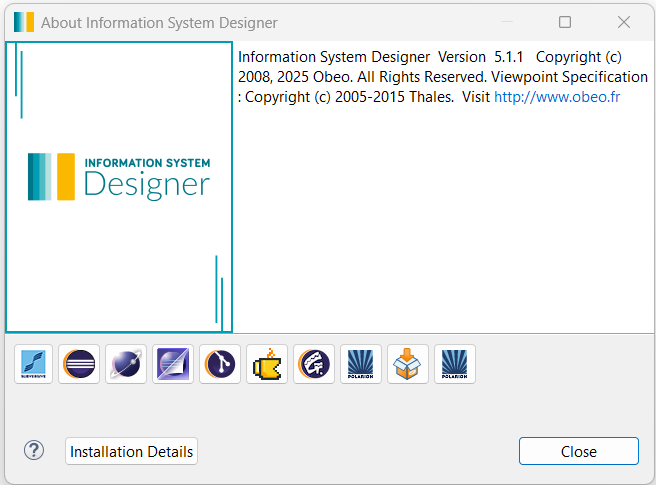
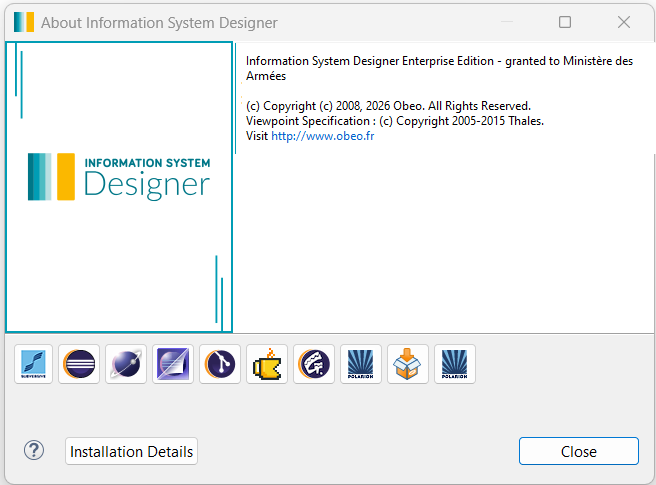
Modifications suite à passage ISD 6.0.0

Changed region(s): [[0.3659, 0.0928, 1.0, 0.3093], [0.9756, 0.2474, 1.0, 0.3093]]

diff --git a/pacman-frontend.html b/pacman-frontend.html
@@ -155,7 +155,7 @@ C:<span class="se">\U</span>sers&gt;npm<span class="w"> </span>-v
 </code></pre></div>
 <h3 id="plugins-externes">Plugins externes</h3>
 <p>1 - Vérification de la version pour l'IDE</p>
-<p>Avant de commencer l'installation ou l'utilisation du plugin, il est indispensable de vérifier que l'IDE Eclipse utilisé correspond bien à la version 5.1.1 requise. Pour cela, ouvrez Eclipse puis accédez au menu "<em>Help/About Eclipse IDE</em>". Dans la fenêtre d'information, contrôlez attentivement le numéro de version affiché ainsi que les détails de la plateforme. Assurez-vous que la version indiquée est au moins la 5.1.1, afin de garantir la compatibilité complète du plugin et d'éviter tout comportement inattendu ou erreur d'exécution liée à une version non conforme de l'environnement Eclipse.</p>
+<p>Avant de commencer l'installation ou l'utilisation du plugin, il est indispensable de vérifier que l'IDE Eclipse utilisé correspond bien à la version 6.0.0 requise. Pour cela, ouvrez Eclipse puis accédez au menu "<em>Help/About Eclipse IDE</em>". Dans la fenêtre d'information, contrôlez attentivement le numéro de version affiché ainsi que les détails de la plateforme. Assurez-vous que la version indiquée est au moins la 6.0.0, afin de garantir la compatibilité complète du plugin et d'éviter tout comportement inattendu ou erreur d'exécution liée à une version non conforme de l'environnement Eclipse.</p>
 <div align="center">
 <img alt="Installation" src="images/pcm-ecr-about-version.png" width="500"/>
 </div>
@@ -181,7 +181,8 @@ C:<span class="se">\U</span>sers&gt;npm<span class="w"> </span>-v
 <li>Charger le plugin et le stocker dans un répertoire de votre choix sur le disque. </li>
 </ul>
 <p>1b - Compilation des sources (développement)</p>
-<p>Il est aussi possible de récupérer l'ensemble des sources et de les compiler (JDK 17 au minimum et Maven 3.9.9) afin d'obtenir l'update site. Les étapes sont les suivantes : </p>
+<p>Il est aussi possible de récupérer l'ensemble des sources et de les compiler (JDK 21 au minimum et Maven 3.9.16) afin d'obtenir l'update site (❗ Ne pas monter en 3.10.0 cela pose des problématiques avec tycho 5.0.2 !). </p>
+<p>Les étapes sont les suivantes : </p>
 <ul>
 <li>Créer un répertoire sur le disque local</li>
 <li>Lancer la commande : <code>git clone https://github.com/spi4j/pacman-front.git</code></li>
@@ -559,7 +560,7 @@ Un toolkit est développé spécifiquement par le créateur du générateur, et 
 <h3 id="lancement-du-serveur">Lancement du serveur</h3>
 <p>La commande "<em>npm run dev</em>" permet de démarrer le serveur de développement de l'application. Elle exécute le script défini dans le fichier '<em>package.json</em>' (associé à Vite) , qui lance un serveur local avec rechargement automatique. </p>
 <p>Concrètement, dès qu'un fichier du projet est modifié, l'application est recompilée et le navigateur se met à jour sans redémarrage manuel. Cette commande est utilisée uniquement en phase de développement : elle facilite les tests, le débogage et l'itération rapide, sans produire pour autant de version optimisée pour la mise en production.</p>
-<p>Sous ISD, pour lancer le serveur, se positionner au niveau du projet de modélisation et effectuer un click droit sur le fichier de cinématique (comme pour la demande de génération). Deux menus sont présents afin de démarrer ou stopper le serveur pour React. Par défaut le chemin du shell est positionné au niveau de la partie serveur pour le projet : <strong>[Nom de l'application]-server</strong></p>
+<p>Sous ISD, pour lancer le serveur, se positionner au niveau du projet de modélisation et effectuer un click droit sur le fichier de cinématique (comme pour la demande de génération). Deux menus sont présents afin de démarrer ou stopper le serveur pour React. Par défaut le chemin du shell est positionné au niveau de la partie serveur pour le projet : <strong>[Nom de l'application]-server</strong>. Il est à noter par ailleurs que le paramètre "<em>--force</em>" est toujours injecté afin de forcer le nettoyage du cache avant lancement du serveur.</p>
 <p><img alt="Modélisation cinématique" src="images/pcm-react-server-1.png"/></p>
 <p>Vérifier dans la console le bon démarrage du serveur sur le port par défaut 5173 : </p>
 <p><img alt="Modélisation cinématique" src="images/pcm-react-server-3.png"/> </p>
@@ -994,6 +995,8 @@ Si c'est le cas, isActive est positionné à la valeur "<em>true</em>", ce qui p
 <h3 id="formulaire">📄 Formulaire</h3>
 <p>Elément central d'un site web permettant à l'utilisateur de saisir et transmettre des données à l'application. Il constitue le principal moyen d'interaction entre l'interface et la logique métier, que ce soit pour une authentification, une recherche ou une demande spécifique. La conception d'un formulaire repose sur plusieurs aspects essentiels : la clarté des champs, la validation des données (pour éviter les erreurs ou les entrées invalides), la gestion des retours utilisateur et la sécurité des informations transmises.</p>
 <p>Ici, la gestion des formulaires est en grande partie déléguée aux composants du DSFR. Ces composants fournissent des champs, des labels et des messages d'erreur conformes aux standards d'accessibilité et d'ergonomie, ce qui permet de se concentrer principalement sur la logique métier et la validation des données. En s'appuyant sur le DSFR, la structure, le comportement et l'affichage des formulaires sont harmonisés, tout en garantissant une expérience utilisateur cohérente et conforme aux bonnes pratiques des sites institutionnels.</p>
+<p>❗ Attention, il est nécessaire de comprendre que la génération va aussi créer des balises de type "<em>user code</em>" dans lesquelles l'utilisateur peut positionner du code personnel. Cependant les générateurs peuvent aussi positionner par défaut un squelette de code généré en fonction de ce qui a été modélisé. Si une première demande de génération a été effectuée et que la modélisation nécessaire pour créer ce code n'était pas encore présente, cela va empécher la génération de code à l'intérieur de ces balises par la suite. </p>
+<p>Donc si il manque certaines fonctions, bien vérifier si les zones de type "<em>user code</em>" sont encore vides et dans ce cas supprimer les balises avant de relancer la génération... </p>
 <h4 id="modelisation_2">Modélisation</h4>
 <p>Pour cet exemple, nous allons prendre l'écran d'enregistrement d'une démarche administrative. Cet écran permet à l'utilisateur de sélectionner le type de demande désiré et, en fonction de ce type, d'afficher le formulaire adéquat. Un contrôle de surface est alors effectué en temps réel (saisie utilisateur) puis le formulaire est envoyé par l'intermédiaire d'un service REST au backend.</p>
 <p>La modélisation de la page est la suivante (vue "<em>Package Diagram</em>"): </p>
@@ -1647,6 +1650,38 @@ Run<span class="w"> </span><span class="sb">`</span>npm<span class="w"> </span>a
 <hr/>
 <p>On peut remarquer la présence d'une "<strong><em>Validation du diagramme de modélisation</em></strong>". Quelle que soit la couche à générer, il est toujours possible de lancer directement le générateur désiré et celui-ci va automatiquement activer la validation du diagramme avant de se lancer. Si des erreurs sont détectées, il est alors possible d'aller voir le résultat de la validation au niveau de la vue dédiée à la validation (Rapport de validation).</p>
 <p>Pour plus d'informations sur le fonctionnement et l'utilisation du système de validation, se reporter à la documentation de <strong>Pacman</strong> backend.</p>
+<h2 id="problematique-de-cross-origin">🌐 Problématique de cross-origin</h2>
+<p>L'application React générée est exécutée par le serveur de développement Vite, généralement sur une adresse telle que "<em>http://localhost:5173</em>", tandis que le fournisseur de services (backend) est exécuté sur une autre origine, par exemple "<em>http://localhost:8080</em>". Même si les deux applications sont exécutées sur la même machine, elles sont considérées par le navigateur comme appartenant à des origines différentes, car le port fait partie de l'origine. </p>
+<p>Cette différence d'origine devient problématique lorsqu'une application web effectue directement une requête HTTP vers une autre origine. Le navigateur applique alors la politique de sécurité Same-Origin Policy, qui interdit par défaut à une page web d'accéder librement aux ressources provenant d'une autre origine. Le mécanisme CORS (Cross-Origin Resource Sharing) permet au serveur distant d'autoriser explicitement certaines origines à effectuer ces requêtes. Cette autorisation repose notamment sur des en-têtes HTTP tels que Access-Control-Allow-Origin, et peut également nécessiter la gestion des requêtes de pré-vérification OPTIONS lorsqu'il s'agit d'une requête dite "complexe".</p>
+<p>Il se peux dans certains cas, que dans le cadre de l'appel à un fournisseur externe la configuration dans la librairie ne puisse être modifiée dans le cadre du projet. Il n'est donc pas possible par exemple, de simplement ajouter une configuration CORS côté backend afin d'autoriser "<em>http://localhost:5173</em>" pendant le développement.</p>
+<p>La solution retenue consiste à utiliser le proxy intégré à Vite. Le principe est de ne plus appeler directement le backend depuis le navigateur. Le frontend React effectue alors une requête vers une URL appartenant à sa propre origine, par exemple : "<em>http://localhost:5173/api/v1.0/xxxxx</em>".</p>
+<p>Le navigateur considère alors que la requête est destinée au même serveur que celui qui héberge le frontend et n'applique donc pas le problème CORS entre le frontend et le Team Server. Vite reçoit ensuite cette requête et joue le rôle d'intermédiaire. Dans cet exemple, sa configuration indique que les requêtes commençant par "<em>/api</em>" doivent être transférées vers : "<em>http://localhost:8080</em>". Cette architecture permet donc de conserver le backend tel qu'il est pendant la phase de développement, tout en fournissant au frontend une URL locale et relative permettant de communiquer avec son API.</p>
+<p>Positionner simplement un fichier "<em>vite.config.ts</em>" à la racine du projet "<strong>[Nom de l'application]-server</strong>" : </p>
+<div class="codehilite"><pre><span></span><code><span class="k">import</span><span class="w"> </span><span class="p">{</span><span class="w"> </span><span class="nx">defineConfig</span><span class="w"> </span><span class="p">}</span><span class="w"> </span><span class="kr">from</span><span class="w"> </span><span class="s2">"vite"</span><span class="p">;</span>
+<span class="k">import</span><span class="w"> </span><span class="nx">react</span><span class="w"> </span><span class="kr">from</span><span class="w"> </span><span class="s2">"@vitejs/plugin-react"</span><span class="p">;</span>
+
+<span class="k">export</span><span class="w"> </span><span class="k">default</span><span class="w"> </span><span class="nx">defineConfig</span><span class="p">({</span>
+<span class="w">  </span><span class="nx">plugins</span><span class="o">:</span><span class="w"> </span><span class="p">[</span><span class="nx">react</span><span class="p">()],</span>
+
+<span class="w">  </span><span class="nx">server</span><span class="o">:</span><span class="w"> </span><span class="p">{</span>
+<span class="w">    </span><span class="nx">proxy</span><span class="o">:</span><span class="w"> </span><span class="p">{</span>
+<span class="w">      </span><span class="s2">"/api"</span><span class="o">:</span><span class="w"> </span><span class="p">{</span>
+<span class="w">        </span><span class="nx">target</span><span class="o">:</span><span class="w"> </span><span class="s2">"http://localhost:8080"</span><span class="p">,</span>
+<span class="w">        </span><span class="nx">changeOrigin</span><span class="o">:</span><span class="w"> </span><span class="kt">true</span><span class="p">,</span>
+<span class="w">        </span><span class="nx">configure</span><span class="o">:</span><span class="w"> </span><span class="p">(</span><span class="nx">proxy</span><span class="p">)</span><span class="w"> </span><span class="p">=&gt;</span><span class="w"> </span><span class="p">{</span>
+<span class="w">          </span><span class="nx">proxy</span><span class="p">.</span><span class="nx">on</span><span class="p">(</span><span class="s2">"proxyRes"</span><span class="p">,</span><span class="w"> </span><span class="p">(</span><span class="nx">proxyRes</span><span class="p">)</span><span class="w"> </span><span class="p">=&gt;</span><span class="w"> </span><span class="p">{</span>
+<span class="w">            </span><span class="k">if</span><span class="w"> </span><span class="p">(</span><span class="nx">proxyRes</span><span class="p">.</span><span class="nx">statusCode</span><span class="w"> </span><span class="o">===</span><span class="w"> </span><span class="mf">401</span><span class="p">)</span><span class="w"> </span><span class="p">{</span>
+<span class="w">              </span><span class="ow">delete</span><span class="w"> </span><span class="nx">proxyRes</span><span class="p">.</span><span class="nx">headers</span><span class="p">[</span><span class="s2">"www-authenticate"</span><span class="p">];</span>
+<span class="w">            </span><span class="p">}</span>
+<span class="w">          </span><span class="p">});</span>
+<span class="w">        </span><span class="p">},</span>
+<span class="w">      </span><span class="p">},</span>
+<span class="w">    </span><span class="p">},</span>
+<span class="w">  </span><span class="p">},</span>
+<span class="p">});</span>
+</code></pre></div>
+<p>❗ Une fois le proxy mis en place, une condition devient essentielle : les URLs utilisées par le frontend doivent correspondre au chemin sur lequel le proxy est configuré. Ici par exemple, le proxy Vite est configuré pour intercepter les requêtes commençant par "<em>/api</em>". </p>
+<p>D'autant qu'une URL incorrecte ne provoque pas nécessairement une erreur explicite au niveau du code React, Axios peut correctement préparer la requête et exécuter ses intercepteurs sans que celle-ci atteigne le backend. La requête n'est pas envoyé sans pour autant que cela provoque un http 404 ou un timeout... il ne se passe tout simplement rien.</p>
 <h2 id="deploiement">Déploiement</h2>
 <p>[A traiter]</p>
 <h2 id="annexes">📎 Annexes</h2>
@@ -1764,7 +1799,7 @@ Run<span class="w"> </span><span class="sb">`</span>npm<span class="w"> </span>a
 <tr>
 <td>WITH_REQUIRED</td>
 <td>OUI</td>
-<td>Champ obligatoire pour les cases à cocher</td>
+<td>Champ obligatoire (GroupRadio, GroupCheckBox)</td>
 </tr>
 <tr>
 <td>WITH_LINK</td>
@@ -1896,6 +1931,11 @@ Run<span class="w"> </span><span class="sb">`</span>npm<span class="w"> </span>a
 <td>OUI</td>
 <td>Ajout paramètres pour la transition (Route React)</td>
 </tr>
+<tr>
+<td>WITH_CONFIRM_POPUP</td>
+<td>OUI</td>
+<td>Ajout popup de confirmation sur le composant (Button, ButtonSubmit)</td>
+</tr>
 </tbody>
 </table>
 <p>• Liste des règles de validation</p>
@@ -1950,6 +1990,6 @@ Run<span class="w"> </span><span class="sb">`</span>npm<span class="w"> </span>a
 </tbody>
 </table>
 </main>
-<nav class="local-toc"><ul><li><a href="#introduction">🚀 Introduction</a></li><li><a href="#pacman-et-react">🧩 Pacman et React</a></li><li><a href="#installation">🛠 Installation</a></li><ul><li><a href="#prerequis">Prérequis</a></li><li><a href="#installation-node">Installation Node</a></li><li><a href="#plugins-externes">Plugins externes</a></li><li><a href="#plugin-pacman">Plugin Pacman</a></li></ul><li><a href="#creation-du-projet">⚛Création du projet</a></li><ul><li><a href="#wizard-de-creation">Wizard de création</a></li><li><a href="#evolution-de-la-dependance-dsfr">Évolution de la dépendance DSFR</a></li><li><a href="#fichiers-et-repertoires-generes">Fichiers et répertoires Générés</a></li></ul><li><a href="#fichiers-de-configuration">📝 Fichiers de configuration</a></li><ul><ul><li><a href="#dsfrconfigts">dsfr.config.ts</a></li><li><a href="#packagejson">package.json</a></li><li><a href="#tsconfigjson">tsconfig.json</a></li><li><a href="#tsconfignodejson">tsconfig.node.json</a></li><li><a href="#tsconfigappjson">tsconfig.app.json</a></li><li><a href="#viteconfigts">vite.config.ts</a></li></ul></ul><li><a href="#generation-de-la-cinematique">🔀 Génération de la cinématique</a></li><ul><li><a href="#toolkit">Toolkit</a></li><li><a href="#notions-de-base">Notions de base</a></li><li><a href="#lancement-du-serveur">Lancement du serveur</a></li><li><a href="#en-tete-et-pied-page">📄 En-tête et pied-page</a></li><ul><li><a href="#modelisation">Modélisation</a></li><li><a href="#generation">Génération</a></li></ul><li><a href="#securisation-des-acces">🔒 Sécurisation des accès</a></li><ul><li><a href="#modelisation_1">Modélisation</a></li><li><a href="#generation_1">Génération</a></li></ul><li><a href="#formulaire">📄 Formulaire</a></li><ul><li><a href="#modelisation_2">Modélisation</a></li><li><a href="#generation_2">Génération</a></li></ul><li><a href="#table">📄 Table</a></li><ul><li><a href="#modelisation_3">Modélisation</a></li><li><a href="#generation_3">Génération</a></li></ul><li><a href="#page-standard">📄 Page standard</a></li><ul><li><a href="#modelisation_4">Modélisation</a></li><li><a href="#generation_4">Génération</a></li></ul><li><a href="#authentification">🔒 Authentification</a></li><ul><li><a href="#modelisation_5">Modélisation</a></li><li><a href="#generation_5">Génération</a></li></ul><li><a href="#service">🔗 Service</a></li><ul><li><a href="#importation-dune-librairie">Importation d'une librairie</a></li><li><a href="#modelisation_6">Modélisation</a></li><li><a href="#generation_6">Génération</a></li><li><a href="#securisation">Sécurisation</a></li></ul><li><a href="#tests">Tests</a></li></ul><li><a href="#validation-de-la-modelisation">✔ Validation de la modélisation</a></li><li><a href="#deploiement">Déploiement</a></li><li><a href="#annexes">📎 Annexes</a></li></ul></nav>
+<nav class="local-toc"><ul><li><a href="#introduction">🚀 Introduction</a></li><li><a href="#pacman-et-react">🧩 Pacman et React</a></li><li><a href="#installation">🛠 Installation</a></li><ul><li><a href="#prerequis">Prérequis</a></li><li><a href="#installation-node">Installation Node</a></li><li><a href="#plugins-externes">Plugins externes</a></li><li><a href="#plugin-pacman">Plugin Pacman</a></li></ul><li><a href="#creation-du-projet">⚛Création du projet</a></li><ul><li><a href="#wizard-de-creation">Wizard de création</a></li><li><a href="#evolution-de-la-dependance-dsfr">Évolution de la dépendance DSFR</a></li><li><a href="#fichiers-et-repertoires-generes">Fichiers et répertoires Générés</a></li></ul><li><a href="#fichiers-de-configuration">📝 Fichiers de configuration</a></li><ul><ul><li><a href="#dsfrconfigts">dsfr.config.ts</a></li><li><a href="#packagejson">package.json</a></li><li><a href="#tsconfigjson">tsconfig.json</a></li><li><a href="#tsconfignodejson">tsconfig.node.json</a></li><li><a href="#tsconfigappjson">tsconfig.app.json</a></li><li><a href="#viteconfigts">vite.config.ts</a></li></ul></ul><li><a href="#generation-de-la-cinematique">🔀 Génération de la cinématique</a></li><ul><li><a href="#toolkit">Toolkit</a></li><li><a href="#notions-de-base">Notions de base</a></li><li><a href="#lancement-du-serveur">Lancement du serveur</a></li><li><a href="#en-tete-et-pied-page">📄 En-tête et pied-page</a></li><ul><li><a href="#modelisation">Modélisation</a></li><li><a href="#generation">Génération</a></li></ul><li><a href="#securisation-des-acces">🔒 Sécurisation des accès</a></li><ul><li><a href="#modelisation_1">Modélisation</a></li><li><a href="#generation_1">Génération</a></li></ul><li><a href="#formulaire">📄 Formulaire</a></li><ul><li><a href="#modelisation_2">Modélisation</a></li><li><a href="#generation_2">Génération</a></li></ul><li><a href="#table">📄 Table</a></li><ul><li><a href="#modelisation_3">Modélisation</a></li><li><a href="#generation_3">Génération</a></li></ul><li><a href="#page-standard">📄 Page standard</a></li><ul><li><a href="#modelisation_4">Modélisation</a></li><li><a href="#generation_4">Génération</a></li></ul><li><a href="#authentification">🔒 Authentification</a></li><ul><li><a href="#modelisation_5">Modélisation</a></li><li><a href="#generation_5">Génération</a></li></ul><li><a href="#service">🔗 Service</a></li><ul><li><a href="#importation-dune-librairie">Importation d'une librairie</a></li><li><a href="#modelisation_6">Modélisation</a></li><li><a href="#generation_6">Génération</a></li><li><a href="#securisation">Sécurisation</a></li></ul><li><a href="#tests">Tests</a></li></ul><li><a href="#validation-de-la-modelisation">✔ Validation de la modélisation</a></li><li><a href="#problematique-de-cross-origin">🌐 Problématique de cross-origin</a></li><li><a href="#deploiement">Déploiement</a></li><li><a href="#annexes">📎 Annexes</a></li></ul></nav>
 </body>
 </html>

diff --git a/pacman-frontend.md b/pacman-frontend.md
@@ -65,7 +65,7 @@ C:\Users>npm -v
 
 1 - Vérification de la version pour l'IDE
 
-Avant de commencer l'installation ou l'utilisation du plugin, il est indispensable de vérifier que l'IDE Eclipse utilisé correspond bien à la version 5.1.1 requise. Pour cela, ouvrez Eclipse puis accédez au menu "*Help/About Eclipse IDE*". Dans la fenêtre d'information, contrôlez attentivement le numéro de version affiché ainsi que les détails de la plateforme. Assurez-vous que la version indiquée est au moins la 5.1.1, afin de garantir la compatibilité complète du plugin et d'éviter tout comportement inattendu ou erreur d'exécution liée à une version non conforme de l'environnement Eclipse.
+Avant de commencer l'installation ou l'utilisation du plugin, il est indispensable de vérifier que l'IDE Eclipse utilisé correspond bien à la version 6.0.0 requise. Pour cela, ouvrez Eclipse puis accédez au menu "*Help/About Eclipse IDE*". Dans la fenêtre d'information, contrôlez attentivement le numéro de version affiché ainsi que les détails de la plateforme. Assurez-vous que la version indiquée est au moins la 6.0.0, afin de garantir la compatibilité complète du plugin et d'éviter tout comportement inattendu ou erreur d'exécution liée à une version non conforme de l'environnement Eclipse.
 
 <div align="center">
   <img src="images/pcm-ecr-about-version.png" alt="Installation" width="500">
@@ -103,7 +103,9 @@ Comme vu précédemment, si Maven est bien un gestionnaire Java, **même dans le
 
 1b - Compilation des sources (développement)
 
-Il est aussi possible de récupérer l'ensemble des sources et de les compiler (JDK 17 au minimum et Maven 3.9.9) afin d'obtenir l'update site. Les étapes sont les suivantes : 
+Il est aussi possible de récupérer l'ensemble des sources et de les compiler (JDK 21 au minimum et Maven 3.9.16) afin d'obtenir l'update site (❗ Ne pas monter en 3.10.0 cela pose des problématiques avec tycho 5.0.2 !). 
+
+Les étapes sont les suivantes : 
 
 - Créer un répertoire sur le disque local
 - Lancer la commande : ```git clone https://github.com/spi4j/pacman-front.git```
@@ -583,7 +585,7 @@ La commande "*npm run dev*" permet de démarrer le serveur de développement de 
 
 Concrètement, dès qu'un fichier du projet est modifié, l'application est recompilée et le navigateur se met à jour sans redémarrage manuel. Cette commande est utilisée uniquement en phase de développement : elle facilite les tests, le débogage et l'itération rapide, sans produire pour autant de version optimisée pour la mise en production.
 
-Sous ISD, pour lancer le serveur, se positionner au niveau du projet de modélisation et effectuer un click droit sur le fichier de cinématique (comme pour la demande de génération). Deux menus sont présents afin de démarrer ou stopper le serveur pour React. Par défaut le chemin du shell est positionné au niveau de la partie serveur pour le projet : **[Nom de l'application]-server**
+Sous ISD, pour lancer le serveur, se positionner au niveau du projet de modélisation et effectuer un click droit sur le fichier de cinématique (comme pour la demande de génération). Deux menus sont présents afin de démarrer ou stopper le serveur pour React. Par défaut le chemin du shell est positionné au niveau de la partie serveur pour le projet : **[Nom de l'application]-server**. Il est à noter par ailleurs que le paramètre "*--force*" est toujours injecté afin de forcer le nettoyage du cache avant lancement du serveur.
 
 <img src="images/pcm-react-server-1.png" alt="Modélisation cinématique">
 
@@ -1098,6 +1100,10 @@ Enfin, le rendu si l'utilisateur est un administrateur :
 Elément central d'un site web permettant à l'utilisateur de saisir et transmettre des données à l'application. Il constitue le principal moyen d'interaction entre l'interface et la logique métier, que ce soit pour une authentification, une recherche ou une demande spécifique. La conception d'un formulaire repose sur plusieurs aspects essentiels : la clarté des champs, la validation des données (pour éviter les erreurs ou les entrées invalides), la gestion des retours utilisateur et la sécurité des informations transmises.
 
 Ici, la gestion des formulaires est en grande partie déléguée aux composants du DSFR. Ces composants fournissent des champs, des labels et des messages d'erreur conformes aux standards d'accessibilité et d'ergonomie, ce qui permet de se concentrer principalement sur la logique métier et la validation des données. En s'appuyant sur le DSFR, la structure, le comportement et l'affichage des formulaires sont harmonisés, tout en garantissant une expérience utilisateur cohérente et conforme aux bonnes pratiques des sites institutionnels.
+
+❗ Attention, il est nécessaire de comprendre que la génération va aussi créer des balises de type "*user code*" dans lesquelles l'utilisateur peut positionner du code personnel. Cependant les générateurs peuvent aussi positionner par défaut un squelette de code généré en fonction de ce qui a été modélisé. Si une première demande de génération a été effectuée et que la modélisation nécessaire pour créer ce code n'était pas encore présente, cela va empécher la génération de code à l'intérieur de ces balises par la suite. 
+
+Donc si il manque certaines fonctions, bien vérifier si les zones de type "*user code*" sont encore vides et dans ce cas supprimer les balises avant de relancer la génération... 
 
 #### Modélisation
 
@@ -1925,6 +1931,48 @@ On peut remarquer la présence d'une "***Validation du diagramme de modélisatio
 
 Pour plus d'informations sur le fonctionnement et l'utilisation du système de validation, se reporter à la documentation de **Pacman** backend.
 
+## 🌐 Problématique de cross-origin
+
+L'application React générée est exécutée par le serveur de développement Vite, généralement sur une adresse telle que "*http://localhost:5173*", tandis que le fournisseur de services (backend) est exécuté sur une autre origine, par exemple "*http://localhost:8080*". Même si les deux applications sont exécutées sur la même machine, elles sont considérées par le navigateur comme appartenant à des origines différentes, car le port fait partie de l'origine. 
+
+Cette différence d'origine devient problématique lorsqu'une application web effectue directement une requête HTTP vers une autre origine. Le navigateur applique alors la politique de sécurité Same-Origin Policy, qui interdit par défaut à une page web d'accéder librement aux ressources provenant d'une autre origine. Le mécanisme CORS (Cross-Origin Resource Sharing) permet au serveur distant d'autoriser explicitement certaines origines à effectuer ces requêtes. Cette autorisation repose notamment sur des en-têtes HTTP tels que Access-Control-Allow-Origin, et peut également nécessiter la gestion des requêtes de pré-vérification OPTIONS lorsqu'il s'agit d'une requête dite "complexe".
+
+Il se peux dans certains cas, que dans le cadre de l'appel à un fournisseur externe la configuration dans la librairie ne puisse être modifiée dans le cadre du projet. Il n'est donc pas possible par exemple, de simplement ajouter une configuration CORS côté backend afin d'autoriser "*http://localhost:5173*" pendant le développement.
+
+La solution retenue consiste à utiliser le proxy intégré à Vite. Le principe est de ne plus appeler directement le backend depuis le navigateur. Le frontend React effectue alors une requête vers une URL appartenant à sa propre origine, par exemple : "*http://localhost:5173/api/v1.0/xxxxx*".
+
+Le navigateur considère alors que la requête est destinée au même serveur que celui qui héberge le frontend et n'applique donc pas le problème CORS entre le frontend et le Team Server. Vite reçoit ensuite cette requête et joue le rôle d'intermédiaire. Dans cet exemple, sa configuration indique que les requêtes commençant par "*/api*" doivent être transférées vers : "*http://localhost:8080*". Cette architecture permet donc de conserver le backend tel qu'il est pendant la phase de développement, tout en fournissant au frontend une URL locale et relative permettant de communiquer avec son API.
+
+Positionner simplement un fichier "*vite.config.ts*" à la racine du projet "**[Nom de l'application]-server**" : 
+
+```ts
+import { defineConfig } from "vite";
+import react from "@vitejs/plugin-react";
+
+export default defineConfig({
+  plugins: [react()],
+
+  server: {
+    proxy: {
+      "/api": {
+        target: "http://localhost:8080",
+        changeOrigin: true,
+        configure: (proxy) => {
+          proxy.on("proxyRes", (proxyRes) => {
+            if (proxyRes.statusCode === 401) {
+              delete proxyRes.headers["www-authenticate"];
+            }
+          });
+        },
+      },
+    },
+  },
+});
+```
+❗ Une fois le proxy mis en place, une condition devient essentielle : les URLs utilisées par le frontend doivent correspondre au chemin sur lequel le proxy est configuré. Ici par exemple, le proxy Vite est configuré pour intercepter les requêtes commençant par "*/api*". 
+
+D'autant qu'une URL incorrecte ne provoque pas nécessairement une erreur explicite au niveau du code React, Axios peut correctement préparer la requête et exécuter ses intercepteurs sans que celle-ci atteigne le backend. La requête n'est pas envoyé sans pour autant que cela provoque un http 404 ou un timeout... il ne se passe tout simplement rien.
+
 ## Déploiement
 
 [A traiter]
@@ -1955,7 +2003,7 @@ Pour plus d'informations sur le fonctionnement et l'utilisation du système de v
 | WITH_PREFIX | OUI | Préfixe pour valeur du composant DSFR (Range)|
 | WITH_SUFFIX | OUI | Suffixe pour valeur du composant DSFR (Range)| 
 | WITH_IMG | OUI | Ajout d'une image au composant DSFR| 
-| WITH_REQUIRED | OUI | Champ obligatoire pour les cases à cocher | 
+| WITH_REQUIRED | OUI | Champ obligatoire (GroupRadio, GroupCheckBox)| 
 | WITH_LINK | OUI | Ajout d'un lien au composant DSFR|
 | WITH_ORIENTATION | OUI | Ajout d'une orientation pour composant DSFR (Logo) | 
 | WITH_MSG_GROUP | OUI | Ajout de texte pour un composant DSFR (Password)  | 
@@ -1982,6 +2030,7 @@ Pour plus d'informations sur le fonctionnement et l'utilisation du système de v
 | WITH_LEFT_ICON | OUI | Spécification icone pour le composant DSFR (Button, ButtonSubmit) | 
 | WITH_VALUE | OUI | Spécification valeur interne pour le composant DSFR (ButtonSubmit)  | 
 | WITH_URL_PARAMS | OUI | Ajout paramètres pour la transition (Route React) | 
+| WITH_CONFIRM_POPUP| OUI | Ajout popup de confirmation sur le composant (Button, ButtonSubmit) |
 
 • Liste des règles de validation
 
